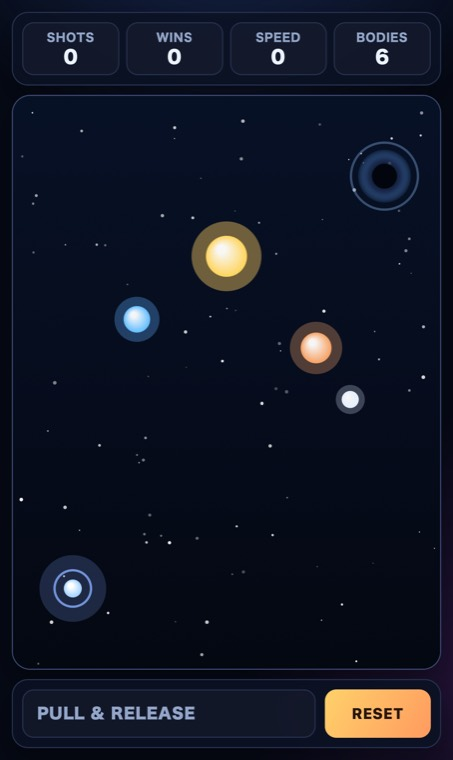
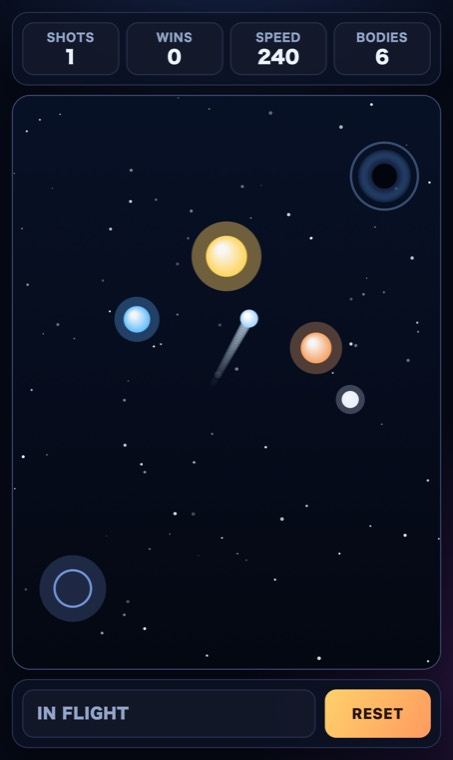
Use action shots for gravity orbit pinball article

diff --git a/articles/2026-02-13-gravity-orbit-pinball/index.html b/articles/2026-02-13-gravity-orbit-pinball/index.html
@@ -242,7 +242,7 @@
       </p>
       <figure class="shot">
         <img src="./images/gravity-orbit-pinball-phone.jpg" alt="Gravity Orbit Pinball の iPhone 画面スクリーンショット" loading="lazy" />
-        <figcaption>iPhone 縦画面。重力源、ゴール、ショット状態を 1 画面で見渡せます。</figcaption>
+        <figcaption>iPhone 縦画面。ショットが飛んでいる最中の軌道と重力源の位置関係が見えるカットです。</figcaption>
       </figure>
       <p>
         さらに、ブラックホール近傍で天体が弾き出される現象や、
@@ -255,7 +255,7 @@
       </p>
       <figure class="shot">
         <img src="./images/gravity-orbit-pinball-desktop.jpg" alt="Gravity Orbit Pinball の広い画面でのスクリーンショット" loading="lazy" />
-        <figcaption>広めの画面では宇宙っぽい余白も含めて、ステージ全体の雰囲気が見えます。</figcaption>
+        <figcaption>広めの画面でも、プレイ中の弾道と宇宙っぽい余白をまとめて見せられます。</figcaption>
       </figure>
 
       <div class="actions">
